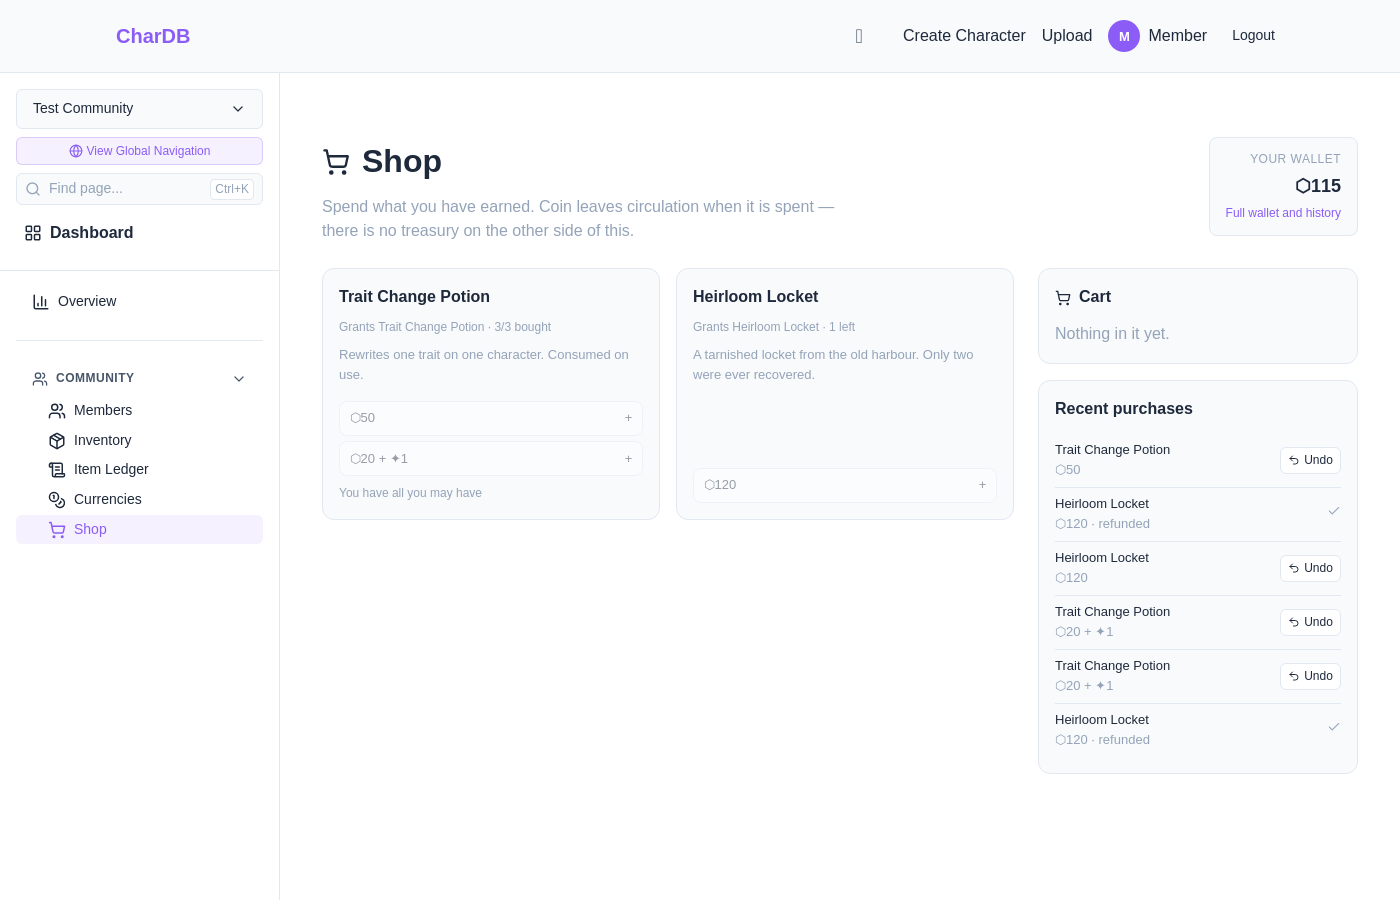
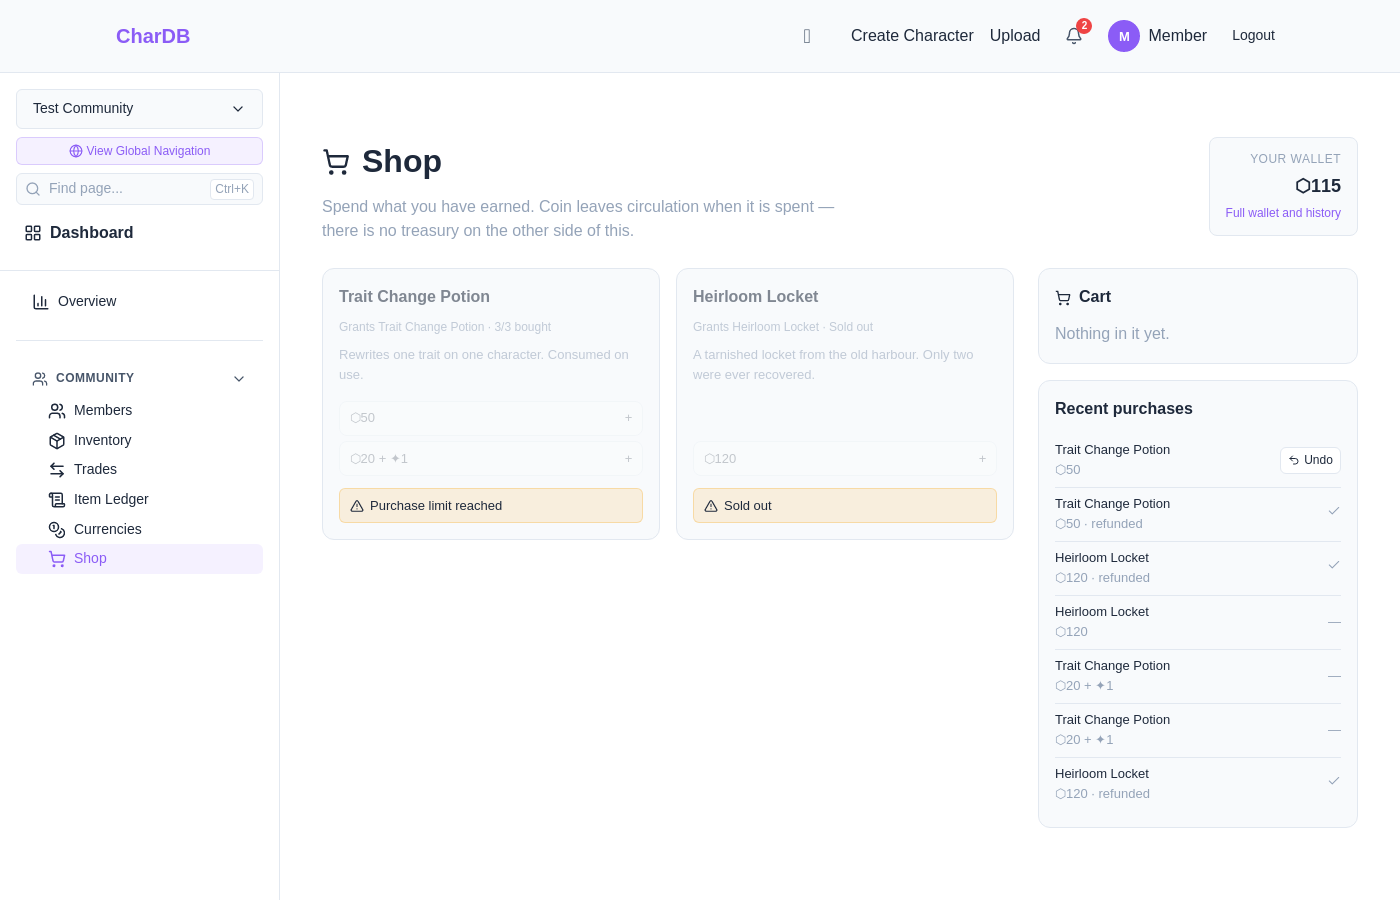
fix(shop): say why a listing is blocked, where it can be seen (#298)
* fix(shop): say why a listing is blocked, where it can be seen (#290)

"You have all you may have" did not name the mechanism, but the wording was
the smaller half. It rendered in CardMeta -- the same muted style as "Grants
Trait Change Potion" -- so the one line explaining a blocked card looked
exactly like the line describing it. And only selling out dimmed the card, so
a listing you had exhausted your own allowance on was not distinguished from a
buyable one at all.

Now a tinted notice under the prices, and both blocked states dim.

The dim moved from the card onto its children, excluding the notice. Opacity
on a parent makes a stacking context and a child cannot come back out of it,
so a card-level dim would have muted the callout along with the very thing it
is there to explain.

One `blockedReason` feeds the notice and every button's title, ordered sold
out, then at your limit, then cannot afford. That fixes the underlying defect:
a button disabled by stock or by the cap explained nothing on hover, while an
*enabled* one claimed you could not afford it -- the reason was attached to
the only state that does not disable anything. Affordability stays last and
non-disabling, since it is advisory and checkout decides.

Three e2e specs including a negative control, and the two walkthrough
screenshots retaken -- the published page quoted words the app no longer says.

Claude-Session: https://claude.ai/code/session_01GwmvJo1WNZ2NnGDqT1Wtjt

* style: prettier
[…]

diff --git a/apps/frontend/src/pages/CommunityShopPage.tsx b/apps/frontend/src/pages/CommunityShopPage.tsx
@@ -1,7 +1,13 @@
 import React, { useMemo, useState } from "react";
 import styled, { css } from "styled-components";
 import { useParams, Link } from "react-router-dom";
-import { ShoppingCart, Package, Undo2, Check } from "lucide-react";
+import {
+  ShoppingCart,
+  Package,
+  Undo2,
+  Check,
+  AlertTriangle,
+} from "lucide-react";
 import { Button } from "@chardb/ui";
 import { toast } from "react-hot-toast";
 import { LoadingSpinner } from "../components/LoadingSpinner";
@@ -119,7 +125,7 @@ const Grid = styled.div`
   gap: 1rem;
 `;
 
-const Card = styled.div<{ $soldOut: boolean }>`
+const Card = styled.div<{ $blocked: boolean }>`
   border: 1px solid ${({ theme }) => theme.colors.border};
   border-radius: 12px;
   background: ${({ theme }) => theme.colors.surface};
@@ -127,11 +133,41 @@ const Card = styled.div<{ $soldOut: boolean }>`
   display: flex;
   flex-direction: column;
   gap: 0.5rem;
-  ${({ $soldOut }) =>
-    $soldOut &&
+
+  /*
+   * Dimmed per child rather than on the card, so the notice explaining why it
+   * is dimmed stays legible. Opacity on a parent makes a stacking context and
+   * a child cannot come back out of it -- the callout would be muted along
+   * with the very thing it is there to explain.
+   */
+  ${({ $blocked }) =>
+    $blocked &&
     css`
-      opacity: 0.55;
+      & > *:not([data-blocked-notice]) {
+        opacity: 0.55;
+      }
     `}
+`;
+
+/**
+ * Why this listing cannot be bought, said where the buttons are.
+ *
+ * Tinted rather than muted: it was previously rendered in CardMeta, the same
+ * style as "Grants Trait Change Potion", so the one line that explained a
+ * blocked card looked exactly like the line describing it.
+ */
+const BlockedNotice = styled.div`
+  display: flex;
+  align-items: center;
+  gap: 0.4rem;
+  margin-top: 0.25rem;
+  padding: 0.4rem 0.6rem;
+  border-radius: 6px;
+  font-size: 0.8125rem;
+  font-weight: 500;
+  color: ${({ theme }) => theme.colors.text.primary};
+  background: ${({ theme }) => theme.colors.warning}20;
+  border: 1px solid ${({ theme }) => theme.colors.warning}45;
 `;
 
 const CardName = styled.div`
@@ -335,6 +371,37 @@ const stockLabel = (item: ShopItemFieldsFragment): string | null => {
   return `${item.stock} left`;
 };
 
+/** Nobody can buy it, as opposed to this viewer having spent their allowance. */
+const isSoldOut = (item: ShopItemFieldsFragment) => item.stock === 0;
+
+/** This viewer holds as many as the listing lets one person hold. */
+const isCapped = (item: ShopItemFieldsFragment) =>
+  item.maxPerUser !== null &&
+  item.maxPerUser !== undefined &&
+  item.purchasedByViewer >= item.maxPerUser;
+
+/**
+ * Why a price cannot be acted on, or null when it can.
+ *
+ * One source for the notice on the card and the tooltip on each button, so the
+ * two cannot say different things. Ordered by precedence: a sold-out listing
+ * is sold out whether or not you could have afforded it.
+ *
+ * Affordability is last and deliberately does not disable anything. It is
+ * computed from balances read a moment ago, and checkout is what decides -- a
+ * button that refuses a purchase the server would have allowed is worse than
+ * one that lets the server say no.
+ */
+const blockedReason = (
+  item: ShopItemFieldsFragment,
+  affordable: boolean,
+): string | null => {
+  if (isSoldOut(item)) return "Sold out";
+  if (isCapped(item)) return "Purchase limit reached";
+  if (!affordable) return "You cannot afford this yet";
+  return null;
+};
+
 export const CommunityShopPage: React.FC = () => {
   const { communityId } = useParams<{ communityId: string }>();
   const { user } = useAuth();
@@ -503,15 +570,15 @@ export const CommunityShopPage: React.FC = () => {
           ) : (
             <Grid data-testid="shop-grid">
               {items.map((item) => {
-                const soldOut = item.stock === 0;
-                const capped =
-                  item.maxPerUser !== null &&
-                  item.maxPerUser !== undefined &&
-                  item.purchasedByViewer >= item.maxPerUser;
+                const soldOut = isSoldOut(item);
+                const capped = isCapped(item);
+                // Affordability does not block, so the card's own notice is
+                // about the two states that do.
+                const cardReason = blockedReason(item, true);
                 return (
                   <Card
                     key={item.id}
-                    $soldOut={soldOut}
+                    $blocked={soldOut || capped}
                     data-testid={`shop-item-${item.id}`}
                   >
                     <CardName>{item.name || item.itemType.name}</CardName>
@@ -531,10 +598,12 @@ export const CommunityShopPage: React.FC = () => {
                           key={price.id}
                           $affordable={price.affordable}
                           disabled={soldOut || capped}
+                          // Every reason it cannot be acted on, not only the
+                          // one that leaves the button enabled. A button
+                          // disabled by stock or by the cap used to explain
+                          // nothing at all on hover.
                           title={
-                            price.affordable
-                              ? undefined
-                              : "You cannot afford this yet"
+                            blockedReason(item, price.affordable) ?? undefined
                           }
                           onClick={() => cart.add(item.id, price.id)}
                           data-testid={`shop-price-${price.id}`}
@@ -544,10 +613,14 @@ export const CommunityShopPage: React.FC = () => {
                         </PriceButton>
                       ))}
                     </Prices>
-                    {(soldOut || capped) && (
-                      <CardMeta>
-                        {soldOut ? "Sold out" : "You have all you may have"}
-                      </CardMeta>
+                    {cardReason && (
+                      <BlockedNotice
+                        data-blocked-notice
+                        data-testid={`shop-blocked-${item.id}`}
+                      >
+                        <AlertTriangle size={14} />
+                        {cardReason}
+                      </BlockedNotice>
                     )}
                   </Card>
                 );

diff --git a/apps/e2e/tests/shop/shop-storefront.e2e.ts b/apps/e2e/tests/shop/shop-storefront.e2e.ts
@@ -1,0 +1,96 @@
+import { presetTest, expect } from "../../src/fixtures.js";
+import { SeedCheckoutDocument } from "../../src/generated/graphql.js";
+
+/**
+ * What a listing you cannot buy tells you.
+ *
+ * The reason used to render in the same muted style as the line describing the
+ * item, so the one sentence explaining a blocked card looked exactly like the
+ * card's own metadata -- and a listing you had exhausted your allowance on was
+ * not distinguished from a buyable one at all (#290).
+ */
+
+const test = presetTest("community-items");
+test.use({ persona: "member" });
+
+test.beforeEach(async ({ world }) => {
+  await world.reset();
+});
+
+test("spending your allowance says so, in its own right", async ({
+  page,
+  world,
+}) => {
+  const listing = world.shop.potionListing;
+
+  // maxPerUser is 3, so three is the whole allowance.
+  await world.as("member").gql(SeedCheckoutDocument, {
+    input: {
+      communityId: world.community.id,
+      lines: [
+        {
+          shopItemId: listing.id,
+          shopPriceId: listing.priceIds[0],
+          quantity: 3,
+        },
+      ],
+    },
+  });
+
+  await page.goto(world.shop.url);
+
+  const notice = page.getByTestId(`shop-blocked-${listing.id}`);
+  await expect(notice).toBeVisible();
+  await expect(notice).toHaveText(/Purchase limit reached/);
+
+  // The tooltip has to agree with the notice. It used to say nothing at all on
+  // a button disabled by the cap, and claimed you could not afford it on one
+  // that was still clickable.
+  const priceButton = page
+    .getByTestId(`shop-price-${listing.priceIds[0]}`)
+    .first();
+  await expect(priceButton).toBeDisabled();
+  await expect(priceButton).toHaveAttribute("title", "Purchase limit reached");
+});
+
+test("a sold-out listing says that instead", async ({ page, world }) => {
+  const listing = world.shop.locketListing;
+
+  // Stock is 2, so buying both empties it for everybody.
+  await world.as("member").gql(SeedCheckoutDocument, {
+    input: {
+      communityId: world.community.id,
+      lines: [
+        {
+          shopItemId: listing.id,
+          shopPriceId: listing.priceIds[0],
+          quantity: 2,
+        },
+      ],
+    },
+  });
+
+  await page.goto(world.shop.url);
+
+  const notice = page.getByTestId(`shop-blocked-${listing.id}`);
+  await expect(notice).toBeVisible();
+  // Sold out outranks everything else: it is sold out whether or not this
+  // member could have afforded another.
+  await expect(notice).toHaveText(/Sold out/);
+  await expect(
+    page.getByTestId(`shop-price-${listing.priceIds[0]}`).first(),
+  ).toHaveAttribute("title", "Sold out");
+});
+
+test("a listing you can buy carries no notice", async ({ page, world }) => {
+  // The negative control. Without it these tests would pass against a card
+  // that always rendered the notice.
+  await page.goto(world.shop.url);
+
+  await expect(
+    page.getByTestId(`shop-blocked-${world.shop.potionListing.id}`),
+  ).toHaveCount(0);
+  await expect(
+    page.getByTestId(`shop-blocked-${world.shop.locketListing.id}`),
+  ).toHaveCount(0);
+});

diff --git a/docs/docs/shop.html b/docs/docs/shop.html
@@ -600,7 +600,7 @@
           <div class="screenshot">
             <img
               src="shop-soldout.png"
-              alt="The Heirloom Locket listing dimmed and marked Sold out, with its price option disabled"
+              alt="The Heirloom Locket listing dimmed, its price option disabled, and a highlighted notice reading Sold out"
             />
             <div class="screenshot-caption">
               Sold out. Refunding one puts it straight back on sale.
@@ -613,7 +613,7 @@
           <div class="screenshot">
             <img
               src="shop-cap.png"
-              alt="The Trait Change Potion listing showing 3 of 3 bought with both price options disabled and the note You have all you may have"
+              alt="The Trait Change Potion listing showing 3 of 3 bought, both price options disabled, and a highlighted notice reading Purchase limit reached"
             />
             <div class="screenshot-caption">
               Three of three. Everyone else can still buy it.

diff --git a/apps/frontend/CHANGELOG.md b/apps/frontend/CHANGELOG.md
@@ -7,6 +7,12 @@ and this project adheres to [Semantic Versioning](https://semver.org/spec/v2.0.0
 
 ## [Unreleased]
 
+### Changed
+
+- A shop listing you cannot buy now says why in a highlighted notice rather
+  than a line styled like the item's own description, and hitting your own
+  purchase limit dims the card the way selling out already did (#290).
+
 ### Added
 
 - **A character's full media page** (`/character/:id/media`). The gallery had
